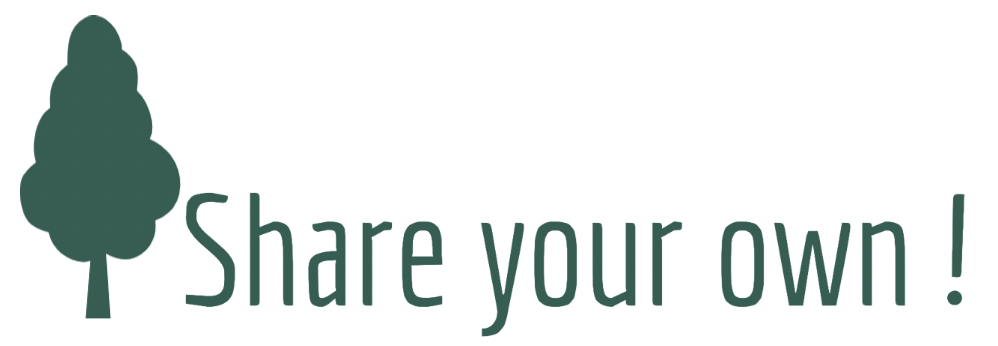
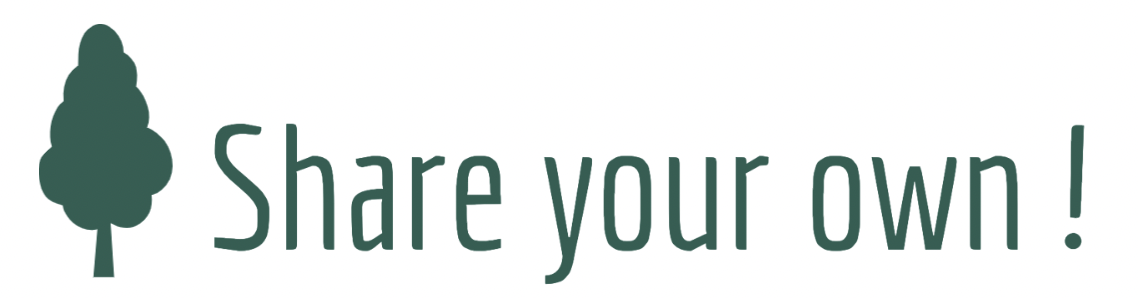
style : header 로고 삽입 / mvp 간격 / 프로필-헤더 간격 수정

Changed region(s): [[0.0, 0.0302, 0.6834, 0.9664], [0.7144, 0.4228, 0.994, 0.906]]

diff --git a/front/src/components/user/LoginForm.js b/front/src/components/user/LoginForm.js
@@ -61,11 +61,14 @@ function LoginForm() {
 
   return (
     <>
-      <Container >
-        <Row className="justify-content-md-center mt-5">
+      <Container>
+        <Row
+          className="justify-content-md-center"
+          style={{ paddingTop: "60px" }}
+        >
           <img alt="로고" src="/image/logo.png" style={{ width: "25%" }} />
         </Row>
-        <Row className="justify-content-md-center mt-2 ">
+        <Row className="justify-content-md-center mt-4">
           <Col lg={8}>
             <Form onSubmit={handleSubmit}>
               <Form.Group controlId="loginEmail">
@@ -76,7 +79,7 @@ function LoginForm() {
                   value={email}
                   onChange={(e) => setEmail(e.target.value)}
                 />
-                {!isEmailValid && email.length!==0 && (
+                {!isEmailValid && email.length !== 0 && (
                   <Form.Text className="text-success">
                     이메일 형식이 올바르지 않습니다.
                   </Form.Text>
@@ -91,7 +94,7 @@ function LoginForm() {
                   value={password}
                   onChange={(e) => setPassword(e.target.value)}
                 />
-                {!isPasswordValid && password.length!==0 && (
+                {!isPasswordValid && password.length !== 0 && (
                   <Form.Text className="text-success">
                     비밀번호는 4글자 이상입니다.
                   </Form.Text>

diff --git a/front/src/components/Header.js b/front/src/components/Header.js
@@ -29,24 +29,26 @@ function Header() {
 
   return (
     <Nav activeKey={location.pathname} className={styles["nav-list"]}>
-      
-      {path === "network" && (
-        <Nav.Item>
-          <SearchBox></SearchBox>
-        </Nav.Item>
-      )}
-     
       {isLogin && (
         <>
-        <Nav.Item className="me-auto">
-        <Nav.Link disabled>안녕하세요, 포트폴리오 공유 서비스입니다.</Nav.Link>
-      </Nav.Item>
-         <Nav.Item>
-        <Nav.Link onClick={() => navigate("/")}>나의 페이지</Nav.Link>
-      </Nav.Item>
-      <Nav.Item>
-        <Nav.Link onClick={() => navigate("/network")}>네트워크</Nav.Link>
-      </Nav.Item>
+          <Nav.Item className="me-auto">
+            <img
+              alt="헤더로고"
+              src="/image/header_image.png"
+              style={{ width: "200px", paddingLeft: "25px" }}
+            />
+          </Nav.Item>
+          {path === "network" && (
+            <Nav.Item>
+              <SearchBox></SearchBox>
+            </Nav.Item>
+          )}
+          <Nav.Item>
+            <Nav.Link onClick={() => navigate("/")}>나의 페이지</Nav.Link>
+          </Nav.Item>
+          <Nav.Item>
+            <Nav.Link onClick={() => navigate("/network")}>네트워크</Nav.Link>
+          </Nav.Item>
           <Nav.Item>
             <Nav.Link onClick={logout}>로그아웃</Nav.Link>
           </Nav.Item>

diff --git a/front/src/components/Portfolio.js b/front/src/components/Portfolio.js
@@ -54,7 +54,7 @@ function Portfolio() {
             isEditable={portfolioOwner.id === userState.user?.id}
           />
         </Col>
-        <Col>
+        <Col className={styles["mvp"]}>
           <Education
             portfolioOwnerId={portfolioOwner.id}
             isEditable={portfolioOwner.id === userState.user?.id}

diff --git a/front/src/components/education/Education.js b/front/src/components/education/Education.js
@@ -24,7 +24,7 @@ const Education = ({ portfolioOwnerId, isEditable }) => {
   }, [getEducationList]);
 
   return (
-    <Card>
+    <Card className="mb-3">
       <Card.Body>
         <Card.Title className="mb-3">학력</Card.Title>
         <EducationList

diff --git a/front/src/components/certificate/Certificate.js b/front/src/components/certificate/Certificate.js
@@ -22,7 +22,7 @@ function Certificate({ portfolioOwnerId, isEditable }) {
   }, [getCertificateList]);
 
   return (
-    <Card>
+    <Card className="mb-3">
       <Card.Body>
         <Card.Title>자격증</Card.Title>
         <CertificateList

diff --git a/front/src/components/project/Project.js b/front/src/components/project/Project.js
@@ -22,7 +22,7 @@ function Project({ portfolioOwnerId, isEditable }) {
   }, [getProjectList]);
 
   return (
-    <Card>
+    <Card className="mb-3">
       <Card.Body>
         <Card.Title>프로젝트</Card.Title>
         <ProjectList

diff --git a/front/src/components/award/Award.js b/front/src/components/award/Award.js
@@ -22,7 +22,7 @@ function Award({ portfolioOwnerId, isEditable }) {
   }, [getAwardList]);
 
   return (
-    <Card>
+    <Card className="mb-3">
       <Card.Body>
         <Card.Title>수상이력</Card.Title>
         <AwardList

diff --git a/front/src/components/Portfolio.module.css b/front/src/components/Portfolio.module.css
@@ -1,3 +1,10 @@
 .portfolio {
-  padding-top: 50px;
+  padding-top: 80px;
 }
+
+/* .mvp {
+  display: flex;
+  flex-direction: column;
+  justify-content: center;
+  align-items: space-evenly;
+} */

diff --git a/front/src/components/Header.module.css b/front/src/components/Header.module.css
@@ -2,7 +2,9 @@
   position: fixed;
   top: 0;
   width: 100%;
+  height: 70px;
   z-index: 100;
   background-color: white;
   padding-right: 15px;
+  padding-top: 10px;
 }

diff --git a/front/src/components/user/Network.module.css b/front/src/components/user/Network.module.css
@@ -1,3 +1,3 @@
 .network {
-  padding-top: 50px;
+  padding-top: 80px;
 }
